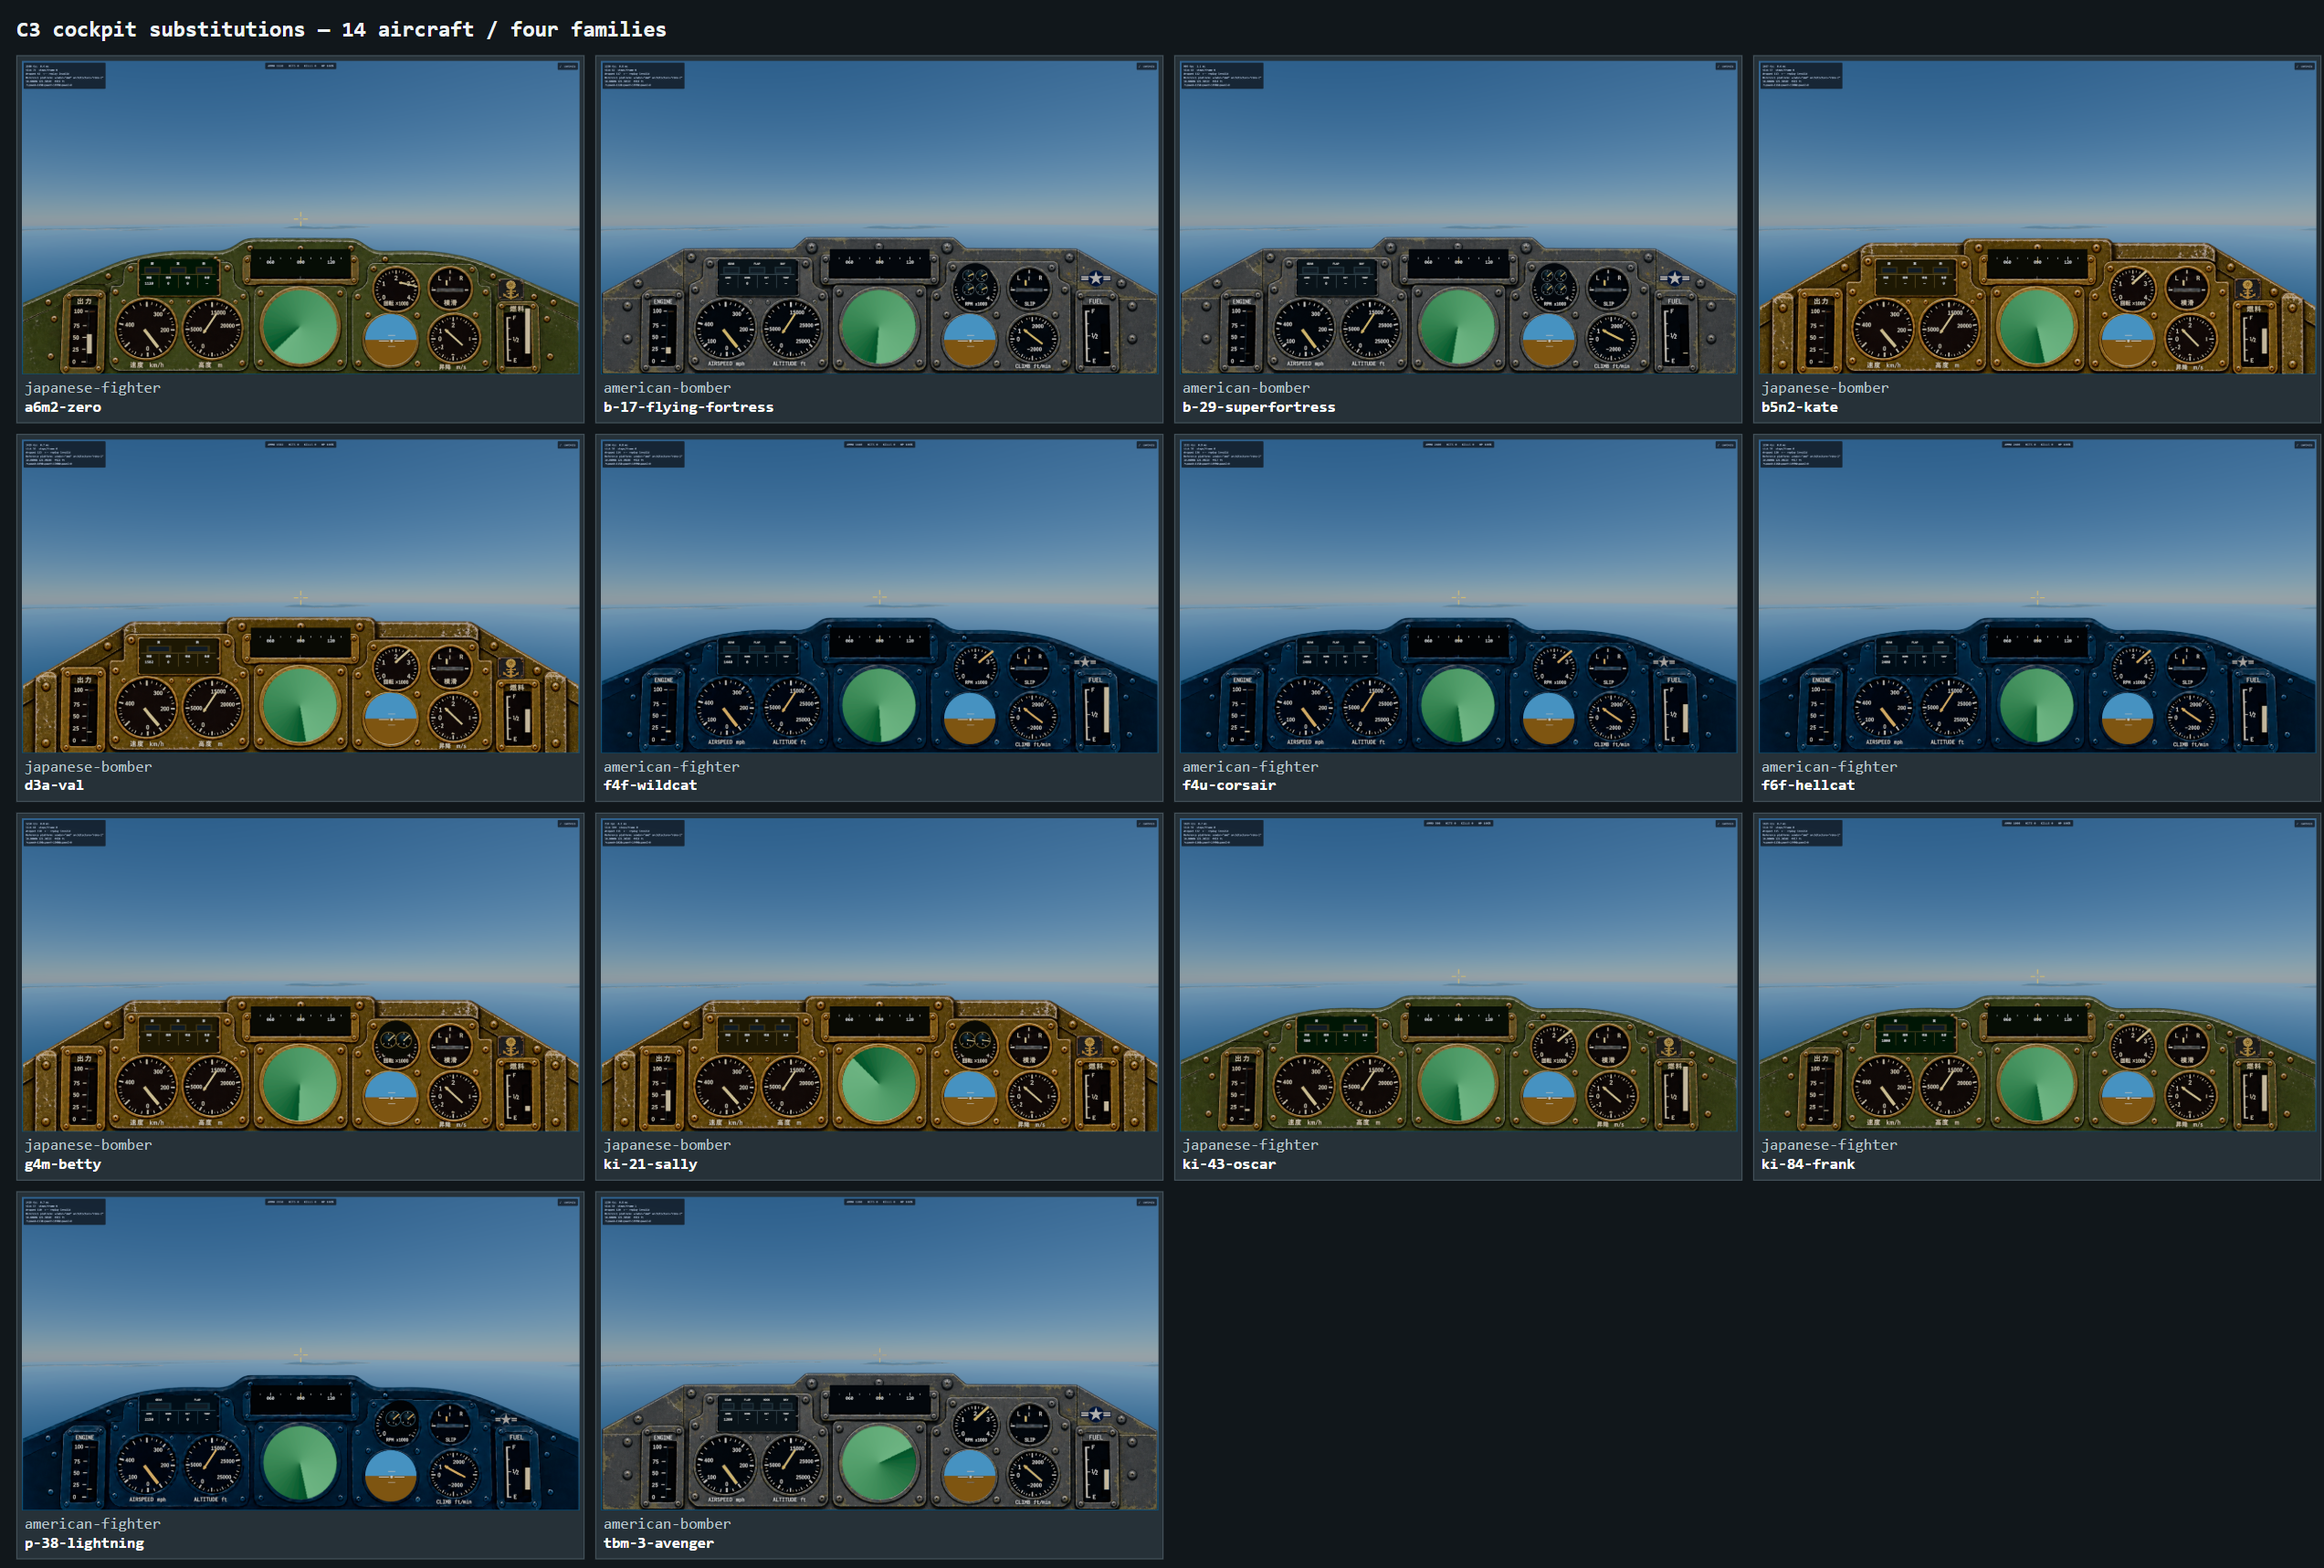
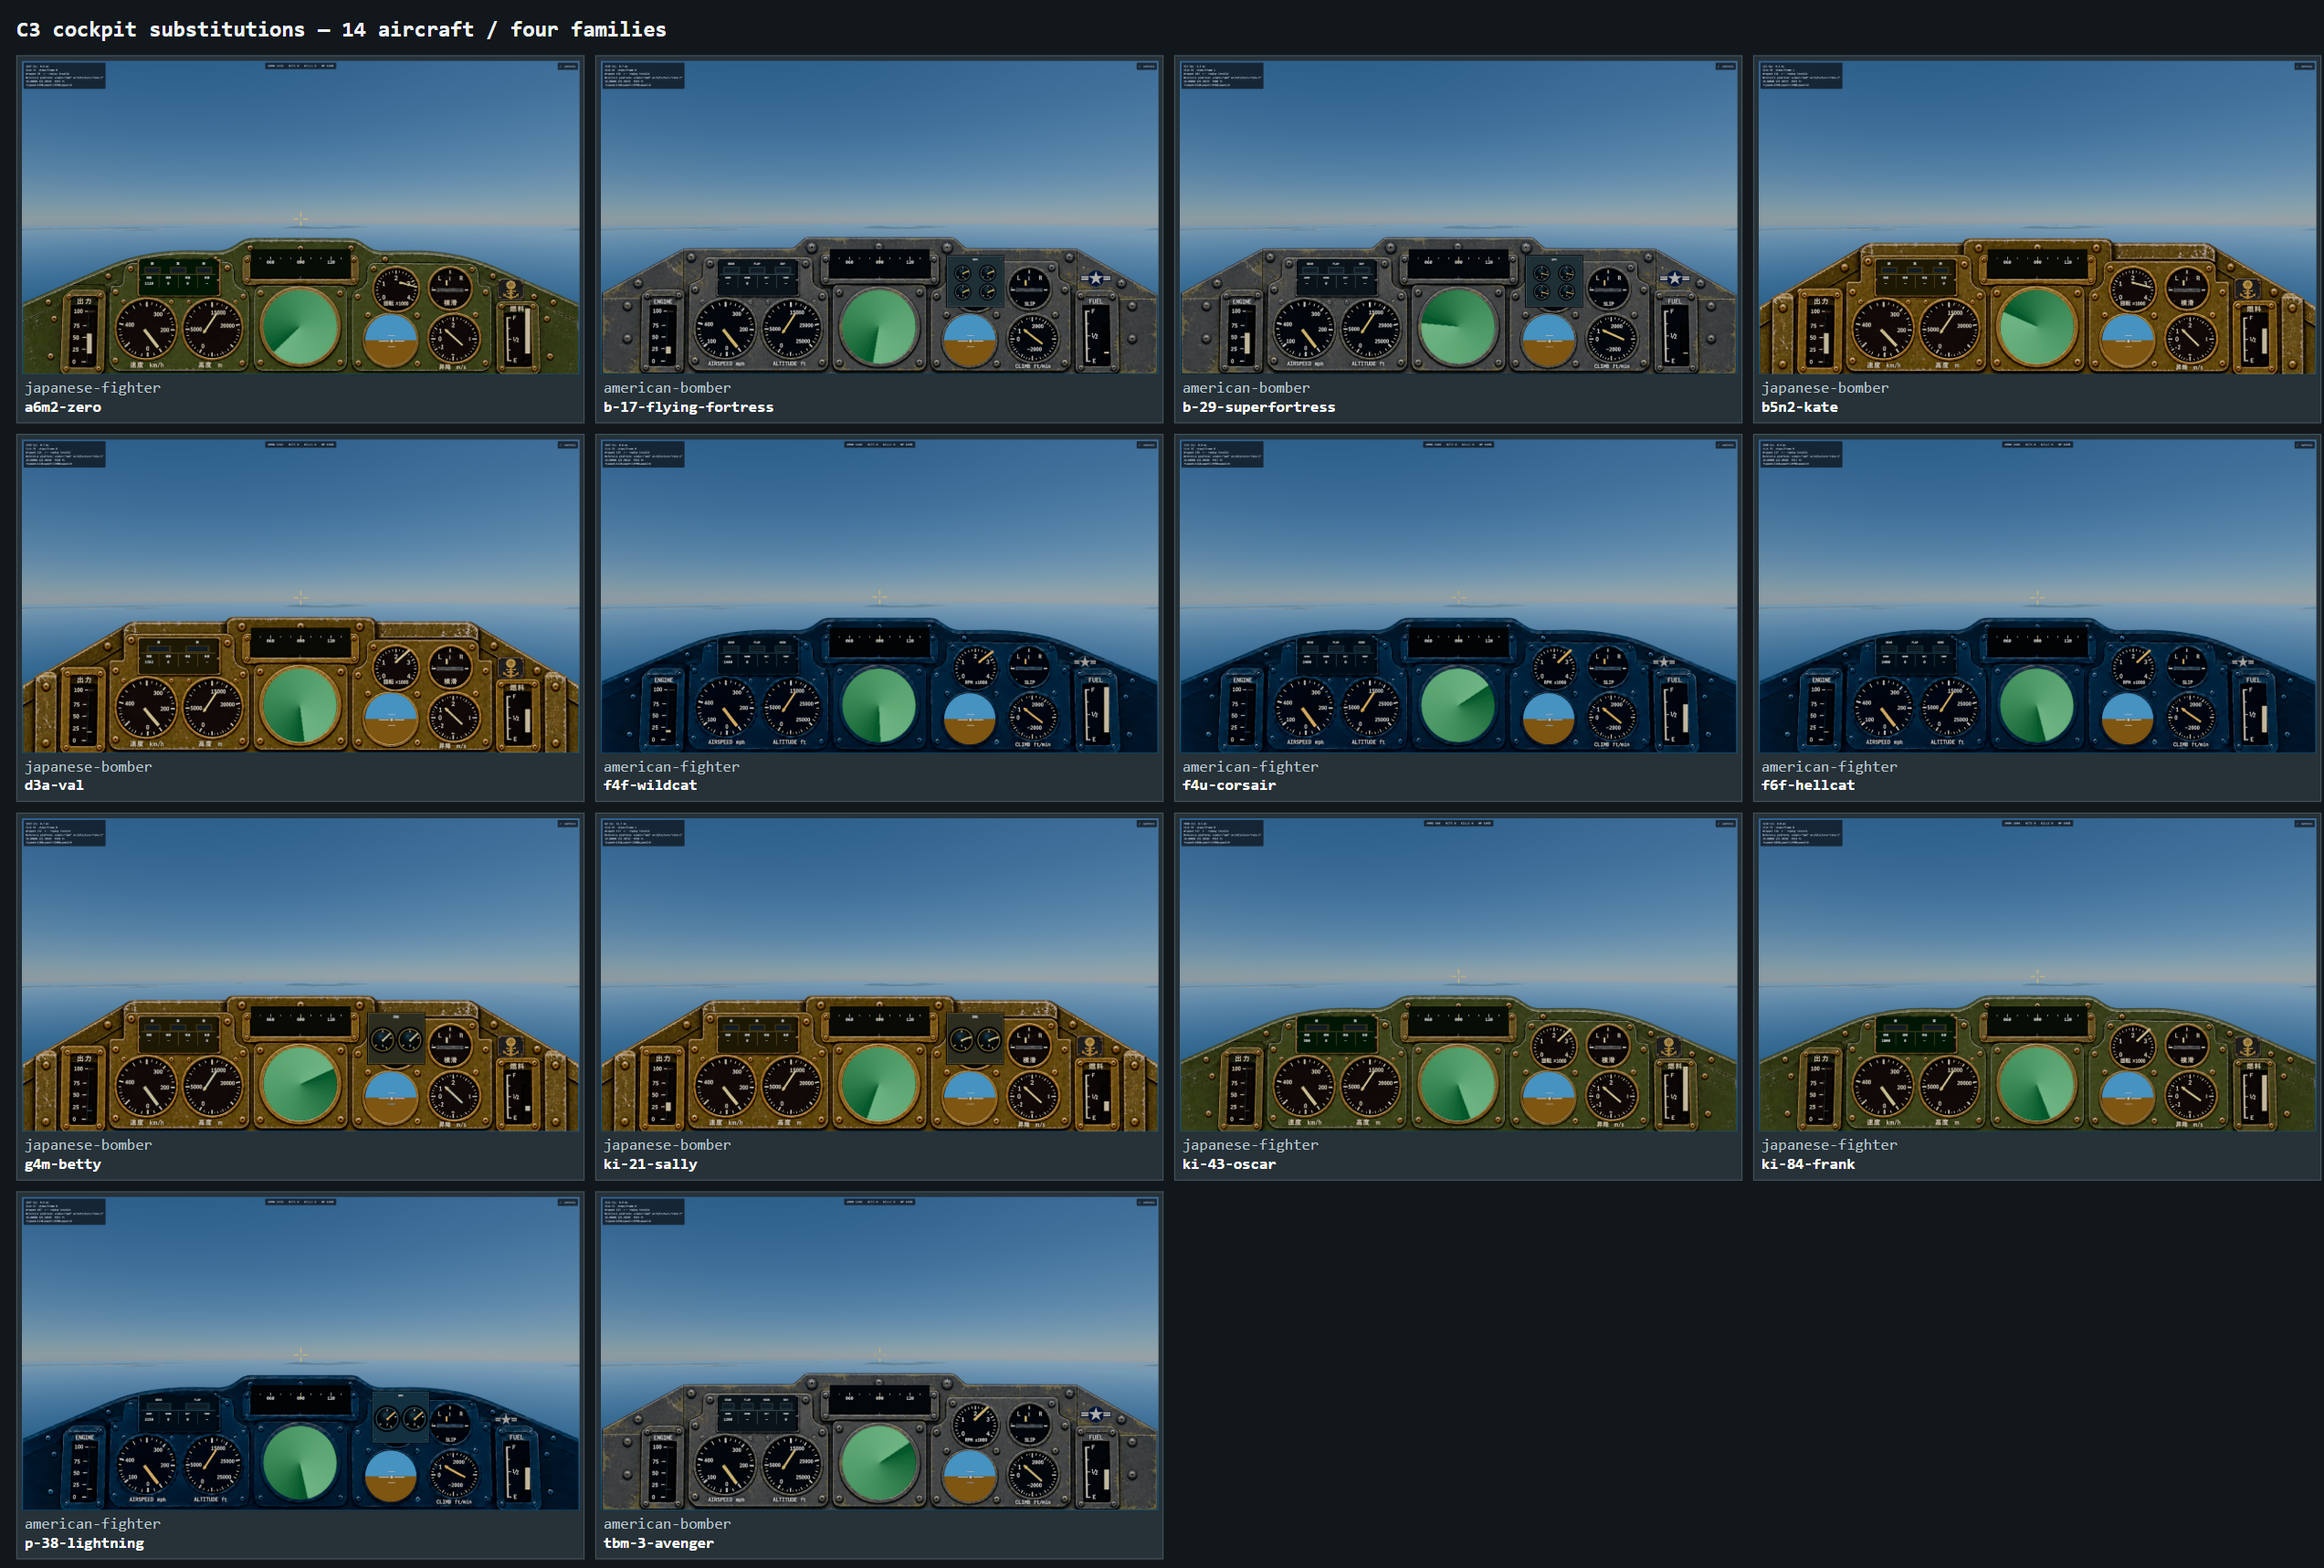
Mount independent multi-engine RPM bezels

diff --git a/src/render/scene/panel.ts b/src/render/scene/panel.ts
@@ -387,7 +387,7 @@ const APPROVED_RADAR_APERTURE = {
 }
 const APPROVED_ATTITUDE_APERTURE = {
   x: approvedFasciaX(1106.25),
-  y: approvedFasciaY(837.25),
+  y: approvedFasciaY(838.25),
   radius: 77 * APPROVED_FASCIA_M_PER_PX,
 }
 
@@ -729,26 +729,56 @@ export function createPanel(spec: AircraftSpec, makeText: TextTextureFactory = m
     const centre = (band.top + band.bottom) / 2
 
     if (g.id === 'rpm' && config.rpmNeedles > 1) {
-      // One pointer per face. The previous implementation put two or four
-      // differently colored pointers on the one photographed RPM scale; the
-      // simulation was genuinely per-engine, but the presentation was not.
-      // Keep the cluster inside the existing RPM opening so the four-family
-      // fascia remains shared by single-, twin-, and four-engine aircraft.
+      // A multi-engine installation is its own bolted instrument plate, not
+      // little gauges nested inside the photographed single-engine dial. The
+      // plate covers that complete bezel and mounts one independent bezel per
+      // physical engine. Single-engine aircraft keep the original large face.
       const fourUp = config.rpmNeedles > 2
-      const faceRadius = DIAL_RADIUS * (fourUp ? 0.31 : 0.42)
-      const centreOffsetX = DIAL_RADIUS * (fourUp ? 0.38 : 0.43)
-      const centreOffsetY = fourUp ? DIAL_RADIUS * 0.38 : 0
+      const scale = config.layout.auxiliaryScale
+      const plateW = 0.122 / scale
+      const plateH = 0.110 / scale
+      const plateY = 0.003 / scale
+      const faceRadius = (fourUp ? 0.0145 : 0.0225) / scale
+      const centreOffsetX = (fourUp ? 0.0275 : 0.030) / scale
+      const centreOffsetY = fourUp ? 0.0205 / scale : 0
 
-      const mask = new Mesh(
-        // Cover the photographed single-engine scale all the way to its inner
-        // rim; otherwise its old 0/4 numerals show through around the new
-        // engine faces and make the cluster look like one gauge laid over
-        // another.
-        new CircleGeometry(DIAL_RADIUS * 1.10, 48),
-        new MeshBasicMaterial({ color: config.layout.faceColor }),
+      const plateShadow = new Mesh(
+        new PlaneGeometry(plateW + 0.006 / scale, plateH + 0.006 / scale),
+        bezelShadowMat,
       )
-      mask.position.z = Z_MARKS
-      dial.add(mask)
+      plateShadow.name = 'rpm:multi-engine-plate-shadow'
+      plateShadow.position.set(0, plateY, Z_MARKS)
+      dial.add(plateShadow)
+      const plateTrim = new Mesh(
+        new PlaneGeometry(plateW + 0.0025 / scale, plateH + 0.0025 / scale),
+        bezelHighlightMat,
+      )
+      plateTrim.name = 'rpm:multi-engine-plate-trim'
+      plateTrim.position.set(0, plateY, Z_MARKS + 0.0002)
+      dial.add(plateTrim)
+      const plate = new Mesh(
+        new PlaneGeometry(plateW, plateH),
+        new MeshBasicMaterial({ color: config.layout.frameColor }),
+      )
+      plate.name = 'rpm:multi-engine-plate'
+      plate.position.set(0, plateY, Z_MARKS + 0.0004)
+      dial.add(plate)
+      const screwX = plateW / 2 - 0.006 / scale
+      const screwY = plateH / 2 - 0.006 / scale
+      addScrew(dial, -screwX, plateY + screwY, 0.0012, Math.PI / 5, 0.0025 / scale)
+      addScrew(dial, screwX, plateY + screwY, 0.0012, -Math.PI / 4, 0.0025 / scale)
+      addScrew(dial, -screwX, plateY - screwY, 0.0012, -Math.PI / 6, 0.0025 / scale)
+      addScrew(dial, screwX, plateY - screwY, 0.0012, Math.PI / 3, 0.0025 / scale)
+
+      const rpmPlateLabel = textPlate(
+        config.layout.unitProfile === 'metric-japanese' ? '回転' : 'RPM',
+        0.037 / scale,
+        0.009 / scale,
+        makeText,
+      )
+      rpmPlateLabel.name = 'rpm:multi-engine-label'
+      rpmPlateLabel.position.set(0, plateY + plateH / 2 - 0.007 / scale, Z_READOUT)
+      dial.add(rpmPlateLabel)
 
       for (let i = 0; i < config.rpmNeedles; i++) {
         const subdial = new Group()
@@ -758,17 +788,24 @@ export function createPanel(spec: AircraftSpec, makeText: TextTextureFactory = m
         subdial.position.set(
           (column === 0 ? -1 : 1) * centreOffsetX,
           fourUp ? (row === 0 ? 1 : -1) * centreOffsetY : 0,
-          0,
+          0.001,
         )
 
         const face = new Mesh(new CircleGeometry(faceRadius, 32), faceMat)
         face.position.z = Z_MARKS + 0.0002
         subdial.add(face)
+        const outerRim = new Mesh(
+          new RingGeometry(faceRadius * 1.12, faceRadius * 1.32, 32),
+          bezelShadowMat,
+        )
+        outerRim.name = `rpm-engine:${i + 1}:bezel`
+        outerRim.position.z = Z_MARKS + 0.0003
+        subdial.add(outerRim)
         const rim = new Mesh(
           new RingGeometry(faceRadius, faceRadius * 1.12, 32),
           bezelHighlightMat,
         )
-        rim.position.z = Z_MARKS + 0.0004
+        rim.position.z = Z_MARKS + 0.0005
         subdial.add(rim)
 
         for (const mark of tickMarksFor(g).filter((candidate) => candidate.major)) {

diff --git a/tests/render/cockpitLayouts.test.ts b/tests/render/cockpitLayouts.test.ts
@@ -74,6 +74,10 @@ describe('C3 cockpit catalog', () => {
       'rpm-engine:1', 'rpm-engine:2', 'rpm-engine:3', 'rpm-engine:4',
     ])
     expect(new Set(b17.rpmNeedles.map((needle) => needle.parent)).size).toBe(4)
+    expect(b17.root.getObjectByName('rpm:multi-engine-plate')).toBeDefined()
+    for (let engine = 1; engine <= 4; engine++) {
+      expect(b17.root.getObjectByName(`rpm-engine:${engine}:bezel`)).toBeDefined()
+    }
     expect(b17.badge.name).toBe('cockpit:badge:usn')
     expect(b17.root.getObjectByName('cockpit:canopy-bow')).toBeUndefined()
 
@@ -82,6 +86,7 @@ describe('C3 cockpit catalog', () => {
     expect(val.lights.gear.visible).toBe(false)
     expect(val.lights.hook.visible).toBe(true)
     expect(val.lights.bay.visible).toBe(false)
+    expect(val.root.getObjectByName('rpm:multi-engine-plate')).toBeUndefined()
     expect(val.badge.name).toBe('cockpit:badge:ijn')
   })
 })

diff --git a/tests/render/cockpitFeedback.test.ts b/tests/render/cockpitFeedback.test.ts
@@ -77,7 +77,7 @@ describe('cockpit feedback', () => {
 
     const horizon = new Box3().setFromObject(p.attitude.ball)
     expect(horizon.getCenter(new Vector3()).x).toBeCloseTo(0.198974, 5)
-    expect(horizon.getCenter(new Vector3()).y).toBeCloseTo(-0.080023, 5)
+    expect(horizon.getCenter(new Vector3()).y).toBeCloseTo(-0.080759, 5)
     expect(horizon.getSize(new Vector3()).x).toBeCloseTo(0.113384, 5)
     expect(horizon.getSize(new Vector3()).y).toBeCloseTo(0.113384, 5)
   })

diff --git a/docs/handoff/2026-10-11-c3-cockpit-families.md b/docs/handoff/2026-10-11-c3-cockpit-families.md
@@ -39,8 +39,10 @@ license, 9,724-byte size and SHA-256 are recorded in `content/fonts/NOTICE.md` a
 Every engine spec now supplies a count, idle RPM and rated RPM. `AircraftState.engineRpm` follows
 throttle through a deterministic 0.45-second exponential lag and the existing per-engine damage
 output channels. Negative-G cutout and a dead output wind a needle down. Single-engine aircraft use
-the full-size RPM face. Multi-engine aircraft use one separate, numbered mini-dial per physical
-engine: two side-by-side for twins and a 2×2 cluster for the B-17 and B-29. The P-38 has two physical
+the full-size RPM face. Multi-engine aircraft replace that opening with a bolted rectangular
+instrument plate carrying one independent, numbered bezel per physical engine: two larger bezels
+side-by-side for twins and a 2×2 bank of four bezels for the B-17 and B-29. No multi-engine layout
+nests smaller gauges inside a larger gauge. The P-38 has two physical
 dials even though its aggregate damage output is repeated until its content gains separate engine
 hit zones. This state is display-only: it has no path back into thrust, fuel, propeller efficiency,
 control authority or any other flight term. The production fixed step reuses one precomputed blend
@@ -69,16 +71,18 @@ separate per-engine mini-dials described above. A subsequent visual re-evaluatio
 first slot-based radar/horizon alignment check was self-referential and wrong. The final correction
 measures each aperture across all four 1672×941 fascia assets and converts those literal pixel
 centres/radii into panel coordinates, with a one/two-pixel lip overscan. Fresh full-size captures
-confirm that both live faces now fill and centre on their painted openings.
+confirm that both live faces now fill their painted openings. The final visual refinement moves the
+horizon face down exactly one source-art pixel and replaces the preliminary clustered RPM treatment
+with the independent two- or four-bezel mounting plate described above.
 
 ## Verification
 
 - `npm run typecheck` passes after the final implementation and capture-tool changes.
 - Focused panel, layout, feedback, family enrollment and engine-RPM coverage passes 78/78 after the
-  final pixel-registered aperture and per-engine-dial changes.
+  final one-pixel horizon adjustment and independent multi-engine-bezel changes.
 - Nexus's real Radeon 680M preliminary capture passed 15/15 (fourteen aircraft plus contact sheet).
-- The final, aperture-corrected headed Ryzen RX 6700 XT reference capture passed 15/15 in 1.8
-  minutes, with no WebGPU
+- The final, aperture-corrected and multi-engine-bezel headed Ryzen RX 6700 XT reference capture
+  passed 15/15 in 1.8 minutes, with no WebGPU
   validation errors or captured page/console errors.
 - `git diff --check` passes.
 - The broad `REMOTE_RUN_OVERFLOW=0 remote-run npm run verify` gate passed typecheck, lint and
